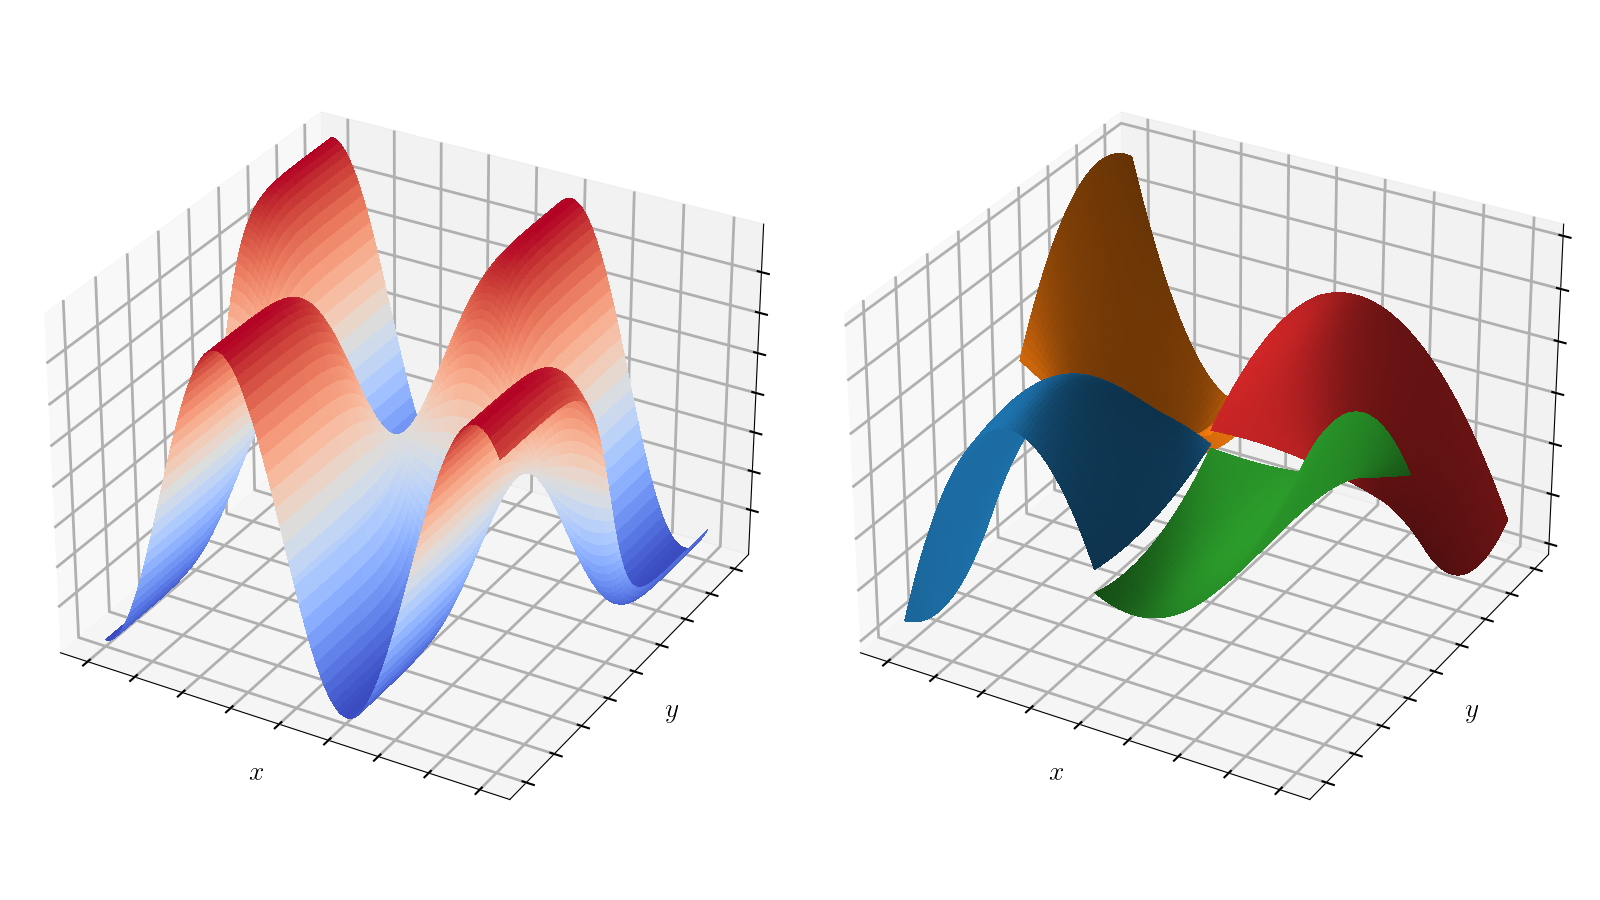
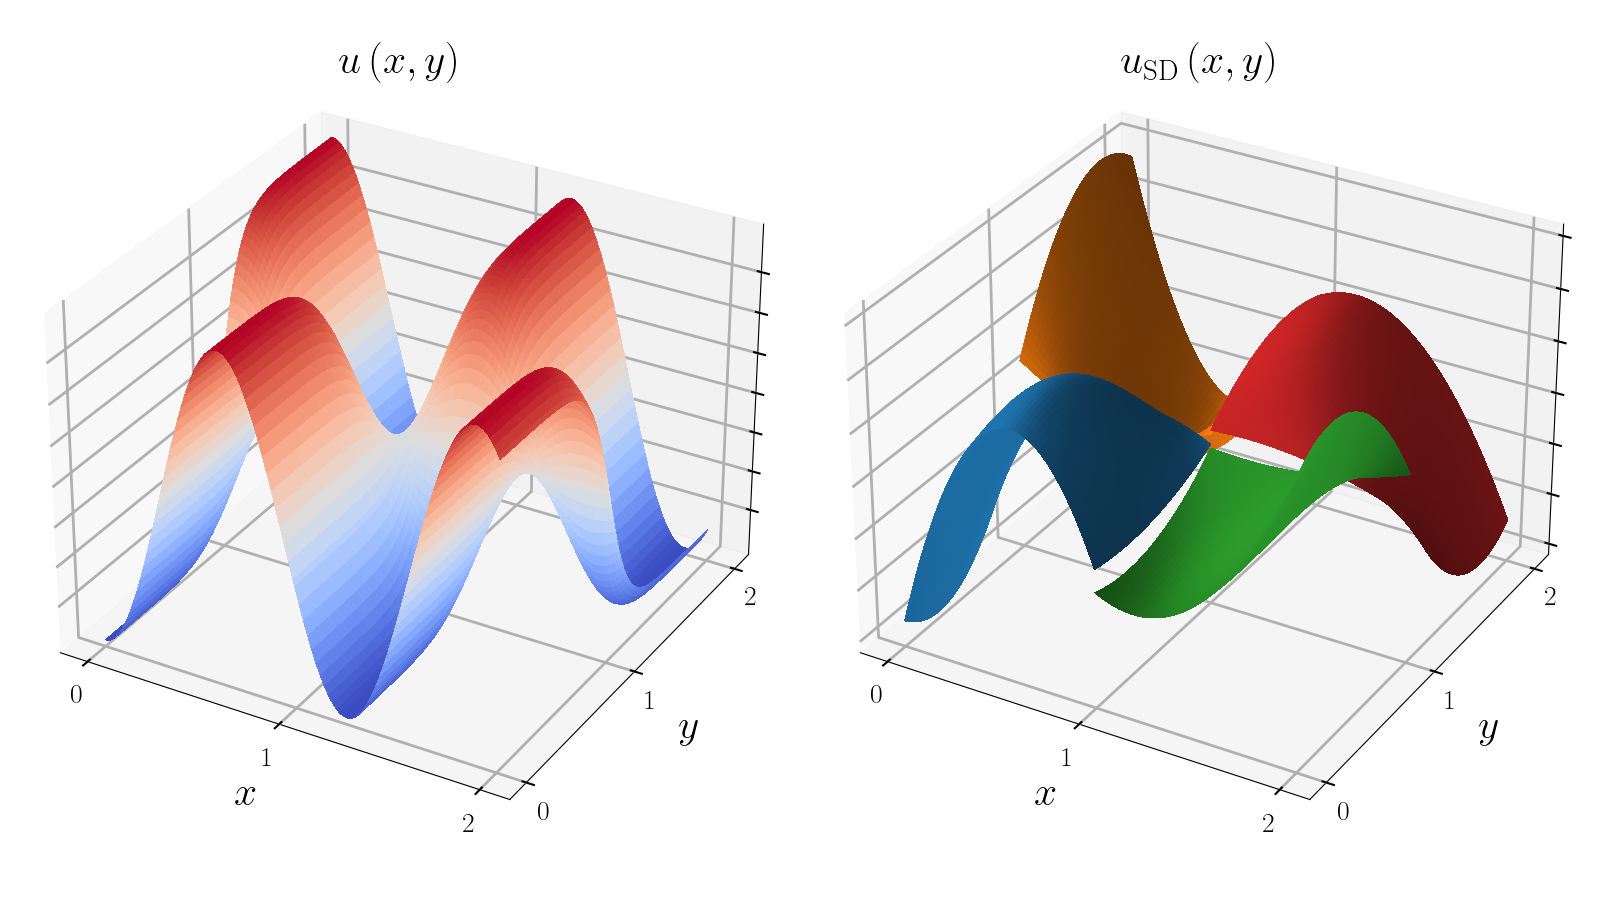
Better labels sd_discontinuous

diff --git a/figures/figures_matplotlib.py b/figures/figures_matplotlib.py
@@ -555,12 +555,22 @@ def sd_discontinuous():
     fig = plt.figure(figsize=[16, 9])
     ax1 = fig.add_subplot(121, projection='3d')
     ax2 = fig.add_subplot(122, projection='3d')
-    ax1.set_xlabel('$x$')
-    ax1.set_ylabel('$y$')
-    ax2.set_xlabel('$x$')
-    ax2.set_ylabel('$y$')
-    ax1.tick_params(labelbottom=False, labelleft=False)
-    ax2.tick_params(labelbottom=False, labelleft=False)
+    ax1.set_xlabel('$x$', fontsize=30, labelpad=15)
+    ax1.set_ylabel('$y$', fontsize=30, labelpad=15)
+    ax2.set_xlabel('$x$', fontsize=30, labelpad=15)
+    ax2.set_ylabel('$y$', fontsize=30, labelpad=15)
+    ax1.set_xticks([0, 1, 2])
+    ax1.set_yticks([0, 1, 2])
+    ax2.set_xticks([0, 1, 2])
+    ax2.set_yticks([0, 1, 2])
+    ax1.xaxis.set_tick_params(labelsize=20)
+    ax2.xaxis.set_tick_params(labelsize=20)
+    ax1.yaxis.set_tick_params(labelsize=20)
+    ax2.yaxis.set_tick_params(labelsize=20)
+    ax1.zaxis.set_tick_params(label1On=False)
+    ax2.zaxis.set_tick_params(label1On=False)
+    ax1.set_title(r'$u\left(x, y\right)$', fontsize=30, y=1, pad=30)
+    ax2.set_title(r'$u_\textrm{SD}\left(x, y\right)$', fontsize=30, y=1, pad=30)
 
     for dx in [0, 1]:
         for dy in [0, 1]:
